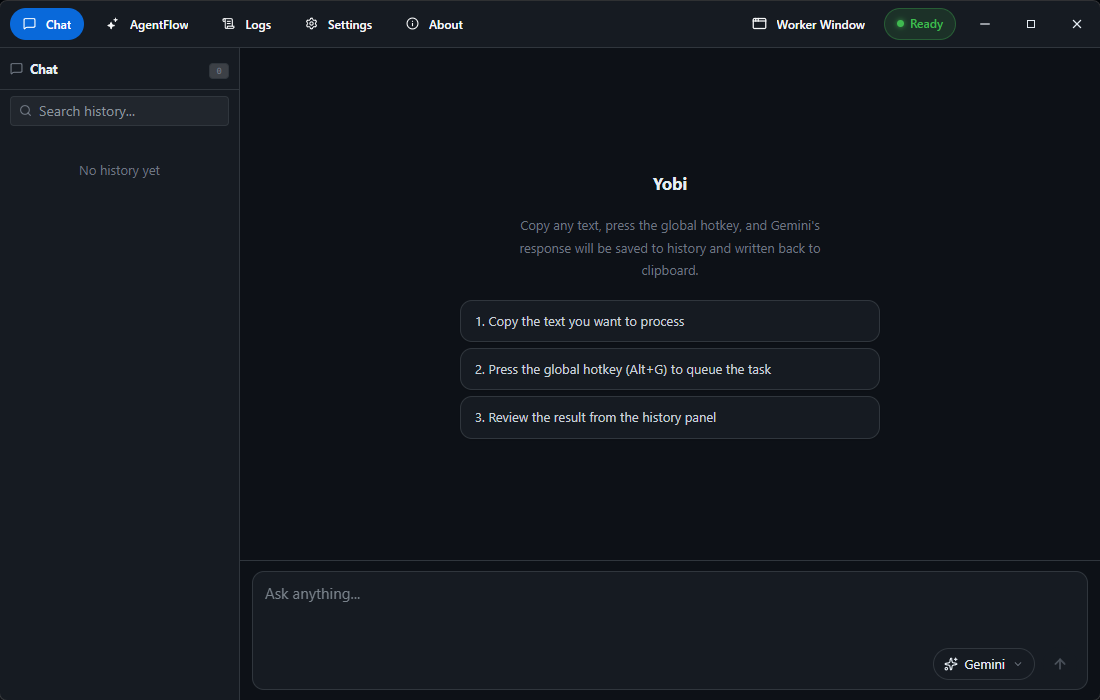
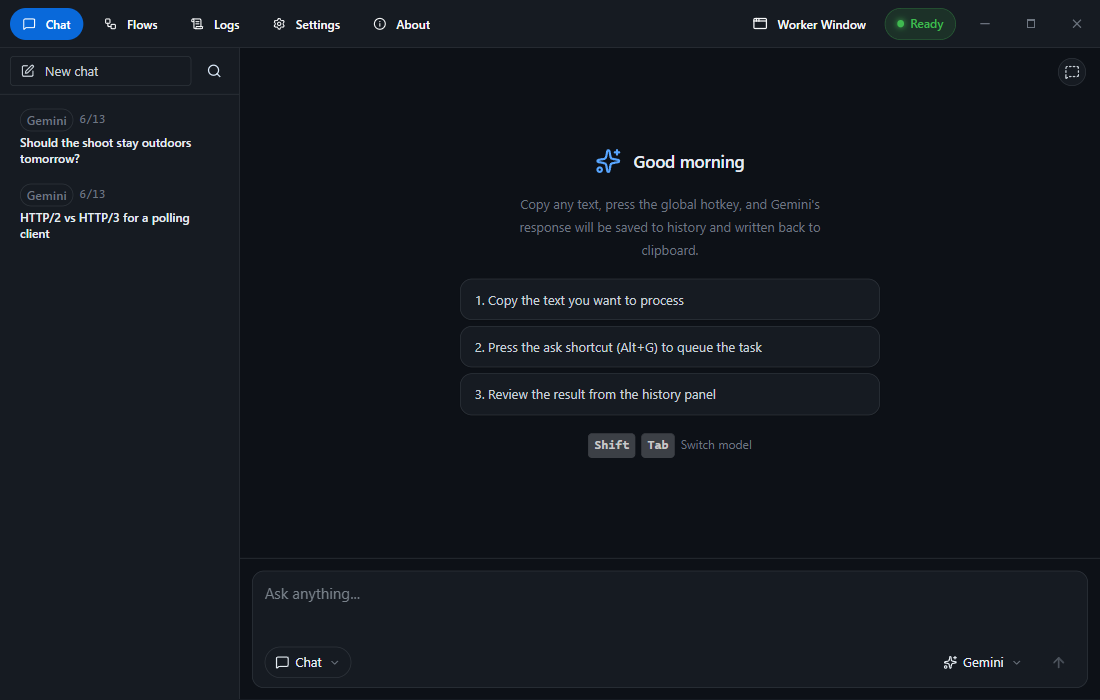
docs(readme): add /agent showcase block and refresh screenshots
Every screenshot was still from the AgentFlow era: the navigation label,
the composer mode pill, the conversation header and the export dialog have
all changed since. Retaken from demo data, plus a new shot of a finished
/agent run, in all three READMEs.

diff --git a/README.zh-CN.md b/README.zh-CN.md
@@ -83,6 +83,14 @@ npm run dev
 
 <div align="center">
 
+![以 /agent 执行并用工具作答](assets/screenshots/agent-command-result.png)
+
+**`/agent`** — 交代一个目标，它自己挑工具、动手执行，再把答案带回来
+
+</div>
+
+<div align="center">
+
 ![流程编辑器（RSS 步骤）](assets/screenshots/flow-editor-rss-step.png)
 
 **流程** — 抓取内容、用 AI 摘要，并按计划发送到 Telegram——无需代码

diff --git a/README.zh-TW.md b/README.zh-TW.md
@@ -83,6 +83,14 @@ npm run dev
 
 <div align="center">
 
+![以 /agent 執行並用工具作答](assets/screenshots/agent-command-result.png)
+
+**`/agent`** — 交代一個目標，它自己挑工具、動手執行，再把答案帶回來
+
+</div>
+
+<div align="center">
+
 ![流程編輯器（RSS 步驟）](assets/screenshots/flow-editor-rss-step.png)
 
 **流程** — 排程擷取內容、用 AI 摘要、再送到 Telegram——全程零程式碼

diff --git a/README.md b/README.md
@@ -83,6 +83,14 @@ npm run dev
 
 <div align="center">
 
+![An /agent run answering with tools](assets/screenshots/agent-command-result.png)
+
+**`/agent`** — give it a goal, and it picks the tools, runs them, and comes back with an answer
+
+</div>
+
+<div align="center">
+
 ![Flow editor with RSS step](assets/screenshots/flow-editor-rss-step.png)
 
 **Flows** — fetch, summarize with AI, and send to Telegram, on a schedule — no code
